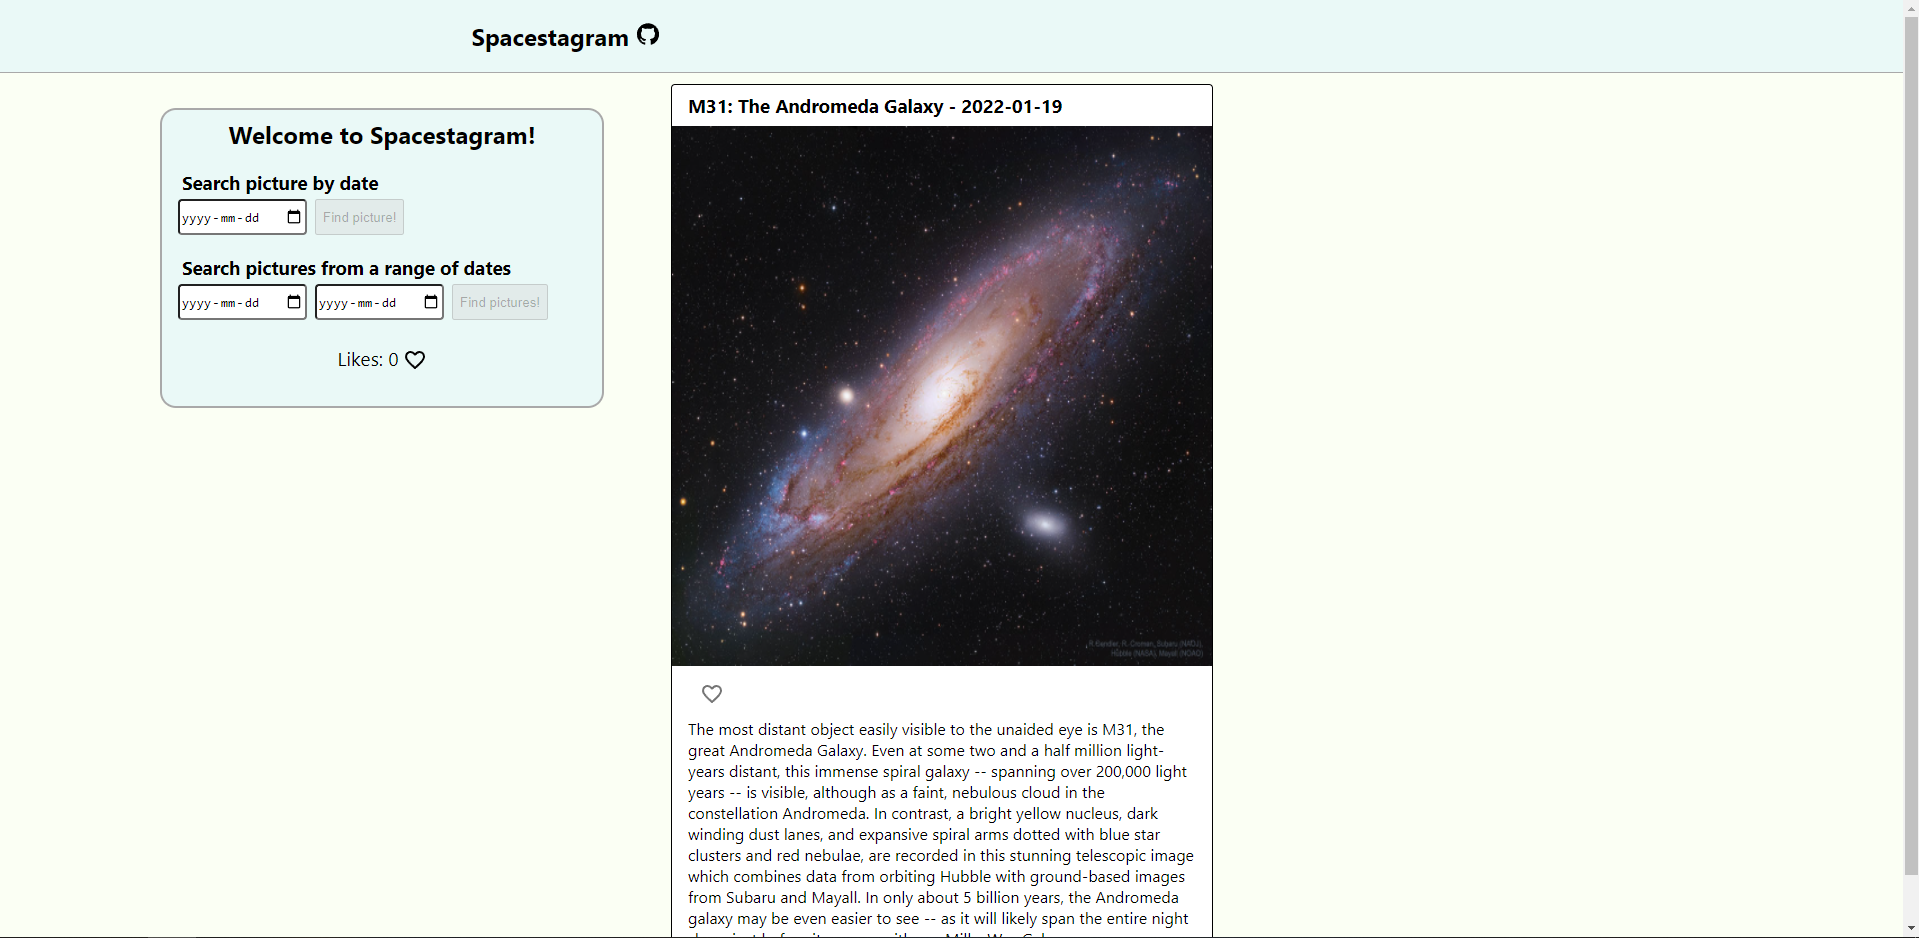
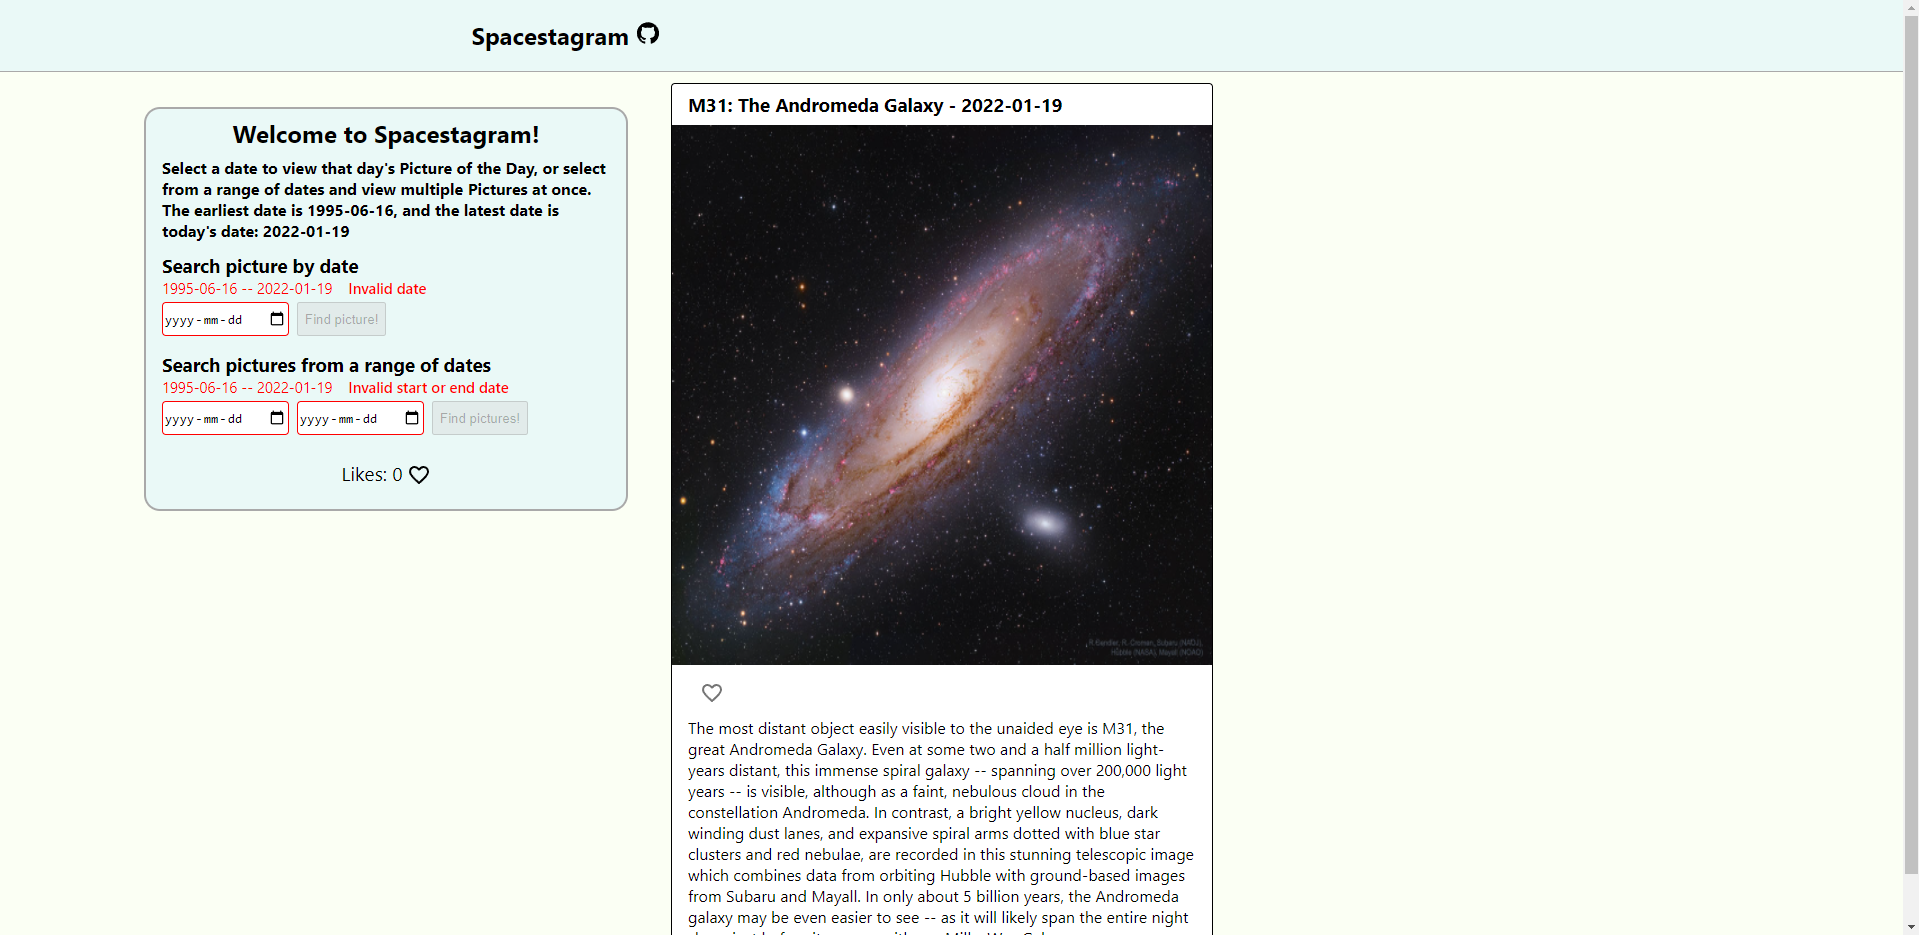
Update error handling, fix styles, add screenshots

diff --git a/src/components/InfoPanel/index.tsx b/src/components/InfoPanel/index.tsx
@@ -17,10 +17,10 @@ interface InfoPanelProps {
 
 const PanelContainer = styled.div`
   position: fixed;
-  width: 440px;
-  height: 296px;
+  width: 480px;
+  height: 400px;
   margin-top: 36px;
-  margin-left: 136px;
+  margin-left: 144px;
   background-color: #eaf9f7;
   border: 2px solid #a9a9a9;
   border-radius: 16px;
@@ -30,29 +30,44 @@ const PanelHeader = styled.h2`
   display: flex;
   justify-content: center;
   margin: 8px;
-  font-weight: 700;
+`;
+
+const PanelDescription = styled.h4`
+  margin: 4px 16px;
 `;
 
 const DateContainer = styled.div`
   display: flex;
   flex-direction: column;
-  padding: 8px 16px;
+  padding: 4px 16px 8px;
 `;
 
 const DateLabel = styled.h3`
-  margin: 4px;
+  margin: 4px 0 0;
 `;
 
-const DatePicker = styled.input`
+const DatePicker = styled.input<{ error: boolean }>`
   width: 124px;
   height: 32px;
   margin-right: 8px;
+  border: ${(props) => (props.error ? "1px solid red" : "1px solid black")};
   border-radius: 4px;
 `;
 
-const DateRangeContainer = styled.div`
+const DateErrorText = styled.div<{ error: boolean }>`
   display: flex;
-  padding-bottom: 16px;
+  color: ${(props) => (props.error ? "red " : "black")};
+  font-size: 0.92em;
+  margin-bottom: 4px;
+`;
+
+const InvalidDateText = styled.div`
+  font-weight: 500;
+  margin-left: 16px;
+`;
+
+const DatePickerContainer = styled.div`
+  display: flex;
 `;
 
 const LikesLabel = styled.div`
@@ -60,6 +75,7 @@ const LikesLabel = styled.div`
   justify-content: center;
   align-items: center;
   font-size: 1.2em;
+  margin-top: 16px;
 `;
 
 const UnlikedIcon = styled(FavoriteBorderIcon)`
@@ -72,6 +88,9 @@ const LikedIcon = styled(FavoriteIcon)`
   padding-top: 4px;
   padding-left: 4px;
 `;
+
+const OLDEST_DATE = "1995-06-16";
+const PRESENT_DATE = new Date().toISOString().split("T")[0];
 
 const InfoPanel: React.FC<InfoPanelProps> = (props: InfoPanelProps) => {
   const {
@@ -89,11 +108,21 @@ const InfoPanel: React.FC<InfoPanelProps> = (props: InfoPanelProps) => {
   return (
     <PanelContainer>
       <PanelHeader>Welcome to Spacestagram!</PanelHeader>
+      <PanelDescription>
+        Select a date to view that day's Picture of the Day, or select from a
+        range of dates and view multiple Pictures at once. The earliest date is
+        1995-06-16, and the latest date is today's date: {PRESENT_DATE}
+      </PanelDescription>
       <DateContainer>
         <DateLabel>Search picture by date</DateLabel>
-        <div style={{ display: "flex" }}>
+        <DateErrorText error={dateError}>
+          {OLDEST_DATE} -- {PRESENT_DATE}
+          {dateError && <InvalidDateText>Invalid date</InvalidDateText>}
+        </DateErrorText>
+        <DatePickerContainer>
           <DatePicker
             type="date"
+            error={dateError}
             onChange={(e) => onDateChange(e.target.value)}
           />
           <button
@@ -102,17 +131,25 @@ const InfoPanel: React.FC<InfoPanelProps> = (props: InfoPanelProps) => {
           >
             Find picture!
           </button>
-        </div>
+        </DatePickerContainer>
       </DateContainer>
       <DateContainer>
         <DateLabel>Search pictures from a range of dates</DateLabel>
-        <DateRangeContainer>
+        <DateErrorText error={dateRangeError}>
+          {OLDEST_DATE} -- {PRESENT_DATE}
+          {dateRangeError && (
+            <InvalidDateText>Invalid start or end date</InvalidDateText>
+          )}
+        </DateErrorText>
+        <DatePickerContainer>
           <DatePicker
             type="date"
+            error={dateRangeError}
             onChange={(e) => onStartDateChange(e.target.value)}
           />
           <DatePicker
             type="date"
+            error={dateRangeError}
             onChange={(e) => onEndDateChange(e.target.value)}
           />
           <button
@@ -121,7 +158,7 @@ const InfoPanel: React.FC<InfoPanelProps> = (props: InfoPanelProps) => {
           >
             Find pictures!
           </button>
-        </DateRangeContainer>
+        </DatePickerContainer>
       </DateContainer>
       <LikesLabel>
         Likes: {likedPosts.length}

diff --git a/src/App.tsx b/src/App.tsx
@@ -6,7 +6,8 @@ import { NasaPost } from "./components/interfaces";
 
 const NASA_API_KEY = process.env.REACT_APP_NASA_API_KEY;
 const PRESENT_DATE = new Date().toISOString().split("T")[0];
-const PLACEHOLDER_DATE = "2099-12-31";
+const OLDEST_DATE = "1995-06-16";
+const PLACEHOLDER_DATE = "2999-12-31";
 
 const App = () => {
   const [date, setDate] = useState<string>(PLACEHOLDER_DATE);
@@ -20,19 +21,29 @@ const App = () => {
 
   const onDateChange = (newDate: string) => {
     setDate(newDate);
-    newDate > PRESENT_DATE ? setDateError(true) : setDateError(false);
+    newDate > PRESENT_DATE || newDate < OLDEST_DATE
+      ? setDateError(true)
+      : setDateError(false);
   };
 
   const onStartDateChange = (newDate: string) => {
     setStartDate(newDate);
-    newDate > PRESENT_DATE || endDate > PRESENT_DATE || newDate > endDate
+    newDate > PRESENT_DATE ||
+    endDate > PRESENT_DATE ||
+    endDate < OLDEST_DATE ||
+    newDate < OLDEST_DATE ||
+    newDate > endDate
       ? setDateRangeError(true)
       : setDateRangeError(false);
   };
 
   const onEndDateChange = (newDate: string) => {
     setEndDate(newDate);
-    newDate > PRESENT_DATE || startDate > PRESENT_DATE || newDate < startDate
+    newDate > PRESENT_DATE ||
+    startDate > PRESENT_DATE ||
+    startDate < OLDEST_DATE ||
+    newDate < OLDEST_DATE ||
+    newDate < startDate
       ? setDateRangeError(true)
       : setDateRangeError(false);
   };
